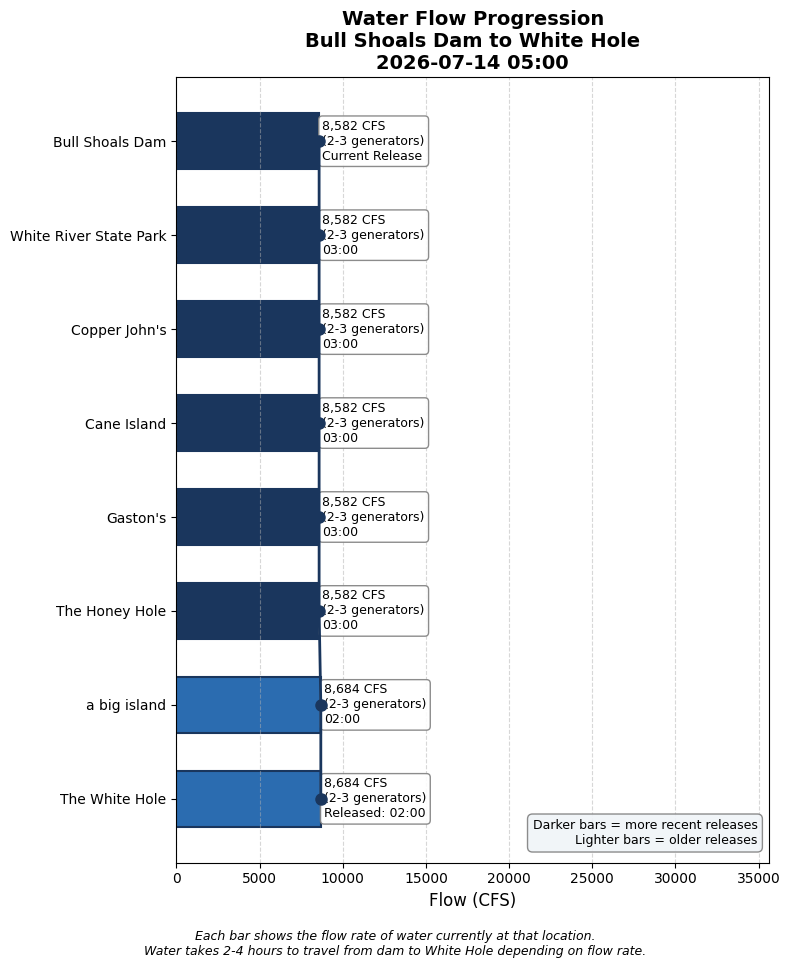
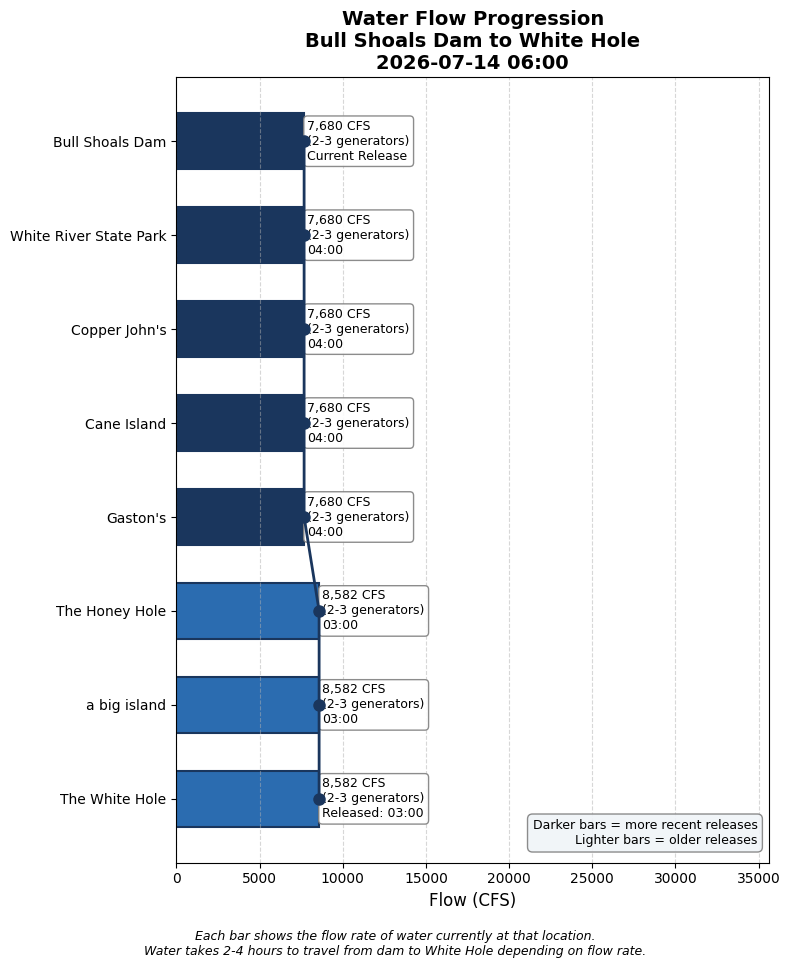
Update water conditions 2026-07-14 06:00

Changed region(s): [[0.2127, 0.124, 0.5468, 0.8678]]

diff --git a/white_hole_conditions.html b/white_hole_conditions.html
@@ -3,7 +3,7 @@
 <head>
     <meta charset="UTF-8">
     <meta name="viewport" content="width=device-width, initial-scale=1.0">
-    <title>White Hole Conditions - 2026-07-14 05:00</title>
+    <title>White Hole Conditions - 2026-07-14 06:00</title>
     <style>
         body {
             font-family: -apple-system, BlinkMacSystemFont, 'Segoe UI', Roboto, sans-serif;
@@ -148,7 +148,7 @@
 </head>
 <body>
     <h1>White Hole Current Conditions</h1>
-    <p class="subtitle">Tuesday, July 14, 2026 at 05:00 AM</p>
+    <p class="subtitle">Tuesday, July 14, 2026 at 06:00 AM</p>
 
     <!-- HEADLINE BANNER -->
     <div class="headline-banner">
@@ -160,7 +160,7 @@
     <!-- CURRENT CONDITIONS -->
     <div class="current-conditions">
         <h3>Current Conditions at White Hole</h3>
-        <div class="flow-display">8,684 CFS</div>
+        <div class="flow-display">8,582 CFS</div>
         <div class="generator-display">Equivalent to 2-3 generators</div>
         <div class="condition-pills">
             <span class="pill wading">No Wading</span>
@@ -189,6 +189,14 @@
                 <tr><td colspan="3" style="padding: 8px 10px; font-size: 0.8em; font-weight: bold; color: #6b46c1; text-transform: uppercase; letter-spacing: 0.05em; background-color: #f3e8ff;">Scheduled (SWPA forecast)</td></tr>
                 
                     <tr style="background-color: #faf5ff; ">
+                        <td style="padding: 10px; font-weight: bold;">9 AM</td>
+                        <td style="padding: 10px;">10,783 CFS<br><small style="color: #666;">(3-4 generators: 10533 generation + 250 min flow)</small></td>
+                        <td style="padding: 10px;">~11:36 AM
+                            <span style="display: inline-block; margin-left: 6px; padding: 2px 8px; border-radius: 12px; font-size: 0.8em; background-color: #fee2e2; color: #991b1b;">No Wading</span>
+                        </td>
+                    </tr>
+                
+                    <tr style="background-color: #faf5ff; ">
                         <td style="padding: 10px; font-weight: bold;">8 AM</td>
                         <td style="padding: 10px;">7,002 CFS<br><small style="color: #666;">(2-3 generators: 6752 generation + 250 min flow)</small></td>
                         <td style="padding: 10px;">~10:54 AM
@@ -212,33 +220,25 @@
                         </td>
                     </tr>
                 
-                    <tr style="background-color: #faf5ff; ">
-                        <td style="padding: 10px; font-weight: bold;">5 AM</td>
-                        <td style="padding: 10px;">7,002 CFS<br><small style="color: #666;">(2-3 generators: 6752 generation + 250 min flow)</small></td>
-                        <td style="padding: 10px;">~7:54 AM
-                            <span style="display: inline-block; margin-left: 6px; padding: 2px 8px; border-radius: 12px; font-size: 0.8em; background-color: #fee2e2; color: #991b1b;">No Wading</span>
-                        </td>
-                    </tr>
-                
             
                     
                 <tr><td colspan="3" style="padding: 8px 10px; font-size: 0.8em; font-weight: bold; color: #2b6cb0; text-transform: uppercase; letter-spacing: 0.05em; background-color: #ebf8ff;">Actual (dam readings)</td></tr>
                 
                     <tr style="background-color: #ebf8ff;">
-                        <td style="padding: 10px; font-weight: bold;">3:00 AM</td>
-                        <td style="padding: 10px;">8,582 CFS<br><small style="color: #666;">(2-3 generators)</small></td>
-                        <td style="padding: 10px;"><span style="color: #2b6cb0;">→ Arrives ~5:46 AM (in 46 min)</span></td>
+                        <td style="padding: 10px; font-weight: bold;">4:00 AM</td>
+                        <td style="padding: 10px;">7,680 CFS<br><small style="color: #666;">(2-3 generators)</small></td>
+                        <td style="padding: 10px;"><span style="color: #2b6cb0;">→ Arrives ~6:50 AM (in 50 min)</span></td>
                     </tr>
                 
                     <tr style="background-color: #e6fffa;">
-                        <td style="padding: 10px; font-weight: bold;">2:00 AM</td>
-                        <td style="padding: 10px;">8,684 CFS<br><small style="color: #666;">(2-3 generators)</small></td>
+                        <td style="padding: 10px; font-weight: bold;">3:00 AM</td>
+                        <td style="padding: 10px;">8,582 CFS<br><small style="color: #666;">(2-3 generators)</small></td>
                         <td style="padding: 10px;"><span style="color: #319795; font-weight: bold;">← AT WHITE HOLE NOW</span></td>
                     </tr>
                 
                     <tr style="">
-                        <td style="padding: 10px; font-weight: bold;">9:00 PM</td>
-                        <td style="padding: 10px;">11,488 CFS<br><small style="color: #666;">(3-4 generators)</small></td>
+                        <td style="padding: 10px; font-weight: bold;">10:00 PM</td>
+                        <td style="padding: 10px;">9,782 CFS<br><small style="color: #666;">(2-3 generators)</small></td>
                         <td style="padding: 10px;"><span style="color: #718096;">passed</span></td>
                     </tr>
                 
@@ -268,9 +268,9 @@
         </summary>
         <div style="padding: 15px;">
             <ul>
-                <li>Latest dam reading: 8,582 CFS at 2026-07-14 03:00</li>
+                <li>Latest dam reading: 7,680 CFS at 2026-07-14 04:00</li>
                 <li>Travel time to White Hole: 2.8 hours at current flow</li>
-                <li>White Hole conditions based on dam reading from: 2026-07-14 02:00</li>
+                <li>White Hole conditions based on dam reading from: 2026-07-14 03:00</li>
             </ul>
         </div>
     </details>
@@ -292,6 +292,13 @@
                     </thead>
                     <tbody>
                         
+                <tr style="border-bottom: 1px solid #eee;">
+                    <td style="padding: 8px;">2026-07-14 04:00</td>
+                    <td style="padding: 8px; text-align: right;">7680</td>
+                    <td style="padding: 8px; text-align: right;">2.3</td>
+                    <td style="padding: 8px; text-align: right;">2.8</td>
+                </tr>
+                
                 <tr style="border-bottom: 1px solid #eee;">
                     <td style="padding: 8px;">2026-07-14 03:00</td>
                     <td style="padding: 8px; text-align: right;">8582</td>
@@ -348,13 +355,6 @@
                     <td style="padding: 8px; text-align: right;">2.1</td>
                 </tr>
                 
-                <tr style="border-bottom: 1px solid #eee;">
-                    <td style="padding: 8px;">2026-07-13 18:00</td>
-                    <td style="padding: 8px; text-align: right;">20108</td>
-                    <td style="padding: 8px; text-align: right;">6.1</td>
-                    <td style="padding: 8px; text-align: right;">2.0</td>
-                </tr>
-                
                     </tbody>
                 </table>
             </div>
@@ -362,7 +362,7 @@
         
 
     <div class="timestamp">
-        Data retrieved and processed on 2026-07-14 05:00:10
+        Data retrieved and processed on 2026-07-14 06:00:10
     </div>
 </body>
 </html>
